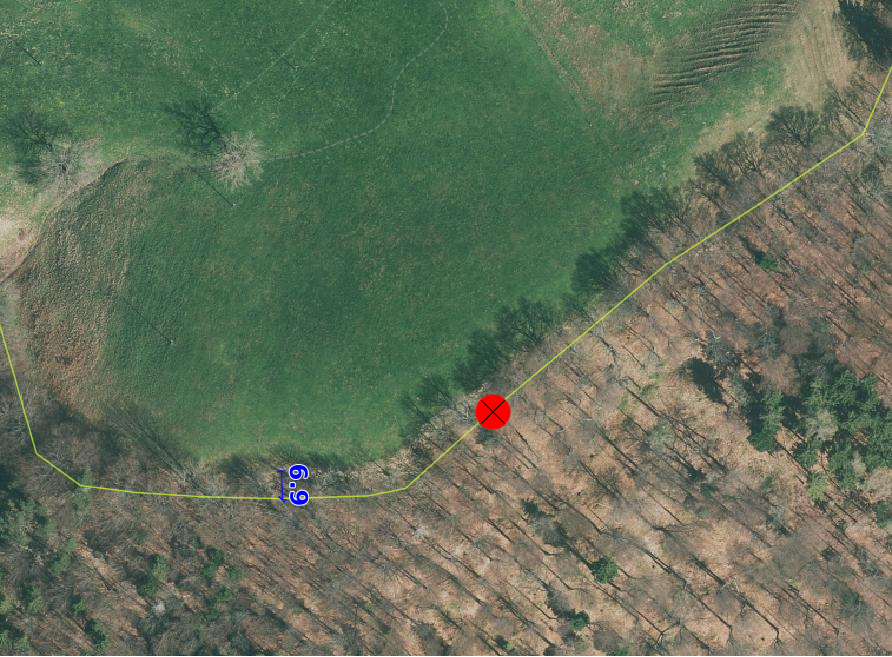
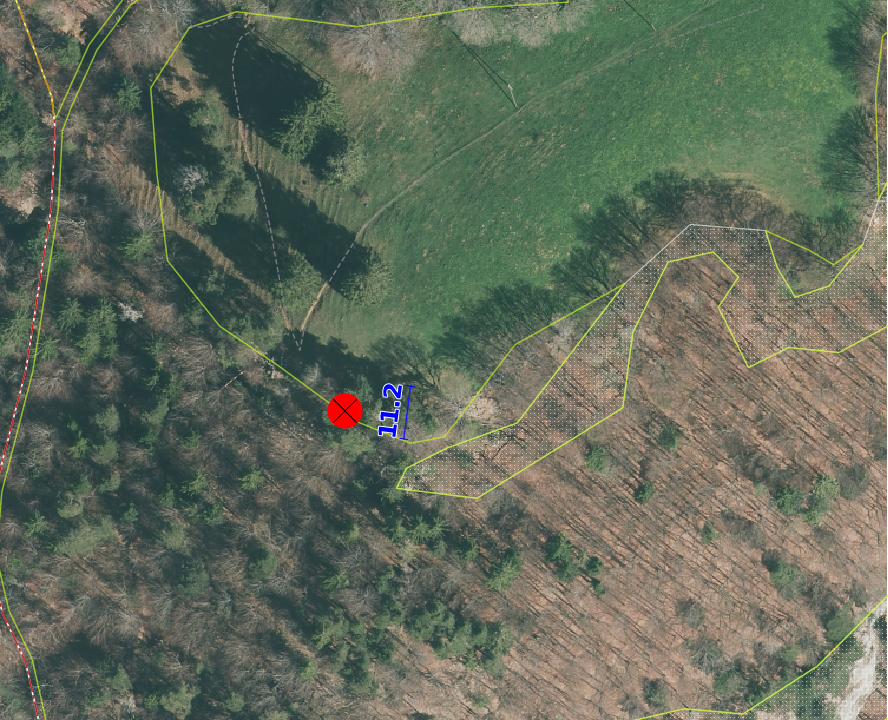
bestockte Fläche

diff --git a/source/bestockte_flaeche.rst b/source/bestockte_flaeche.rst
@@ -36,16 +36,31 @@ BB.geschlossener_Wald
                                
 Lagedifferenz  
 ^^^^^^^^^^^^^                        
-                         
-Wird eine Lagedifferenz zwischen der AV und dem aktuellen Orthofoto grösser als die Toleranz (siehe :ref:`ref_Tz`) und die Interpretationsgenauigkeit detektiert, so ist das Objekt in der AV zu korrigieren. Liegt die Differenz innerhalb der Toleranz, wird das Objekt nicht angepasst. 
+.. index:: Wald, geschlossener Wald   
+                               
+Lagedifferenz  
+^^^^^^^^^^^^^                                              
+Wird eine Lagedifferenz zwischen der AV und dem aktuelle Othofoto grösser als die Toleranz (siehe :ref:`ref_Tz`) und die interpetier Genauigkeit detektiert, so ist das Objekt in der AV zu korrigieren.                                                 
+Liegt die Differenz innerhalb der Toleranz, wird das Objekt nicht angepasst. Ist auf dem Orthofoto nicht klahr ersichtlich, wo der Waldrand verläuft, wird in der AV keine Korrektur vorgenommen.
+
+.. important:: 
+   * Nicht mehr Wald generieren! Wald eher knapp als zu grosszügig definieren.
+   * Nur offensichtliche Unstimmigkeiten korrigieren. Falls die Waldgrenze auf dem Orthofoto nicht klahr ersichtlich ist, wird keine Korrektur in der AV vorgenommen.
+   * Falls Bäume 10 m auseinander stehen ist diese Bestockung kein ``BB.geschlossener Wald``
+
+
+
+.. note::
+   Durch die Kreisförster wird im Zyklus von 10 Jahren der Wald anhand des Waldgesetz auf dem Waldplan erhoben. Als Grundlage für diese Walpläne dient die AV. Die Anpassungen auf dem Waldplan durch die Kreisförster sind jeweils bei der PNF zu berücksichtigen.
+   Stand der Waldpläne siehe Link Termin Waldplan???????????
 
 Benötigende Layer im QGIS:
 
 .. code-block:: none
 
-   Bestockte Fläche / Lagekontrolle   
+   Bestockte Fläche/ Lagekontrolle   
+   Waldplan?????????????????
                                 
-
 Beispiele:
 
 +--------------------------------------------------------------------------------------------+------------------------------------------------------------------------------------+ 
@@ -56,7 +71,7 @@ Beispiele:
 |   :target: _static/bestockte_Flaeche_geschlossener_Wald_Lagedifferenz.png                  |   :target: _static/bestockte_Flaeche_geschlossener_Wald_Lagedifferenz_korr.png     |
 |                                                                                            |                                                                                    |
 |   ``BB.geschlossener_Wald`` ist zu korrigieren, weil die Lagedifferenz                     |   ``BB.geschlossener_Wald`` ist zu korrigieren gemäss den rot dargestellten Linie  |
-|   grösser als die Toleranz (TS3: 3.0 m) und Interpretationsgenauigkeit ist.                |                                                                                    |
+|   grösser als die Toleranz (TS3: 6.0 m) und Interpretationsgenauigkeit ist.                |                                                                                    |
 +--------------------------------------------------------------------------------------------+------------------------------------------------------------------------------------+        
 |.. _bestockte_Flaeche_geschlossener_Wald_Lagedifferenz2:                                    |.. _bestockte_Flaeche_geschlossener_Wald_Lagedifferenz_korr2:                       | 
 |                                                                                            |                                                                                    |
@@ -65,17 +80,38 @@ Beispiele:
 |   :target: _static/bestockte_Flaeche_geschlossener_Wald_Lagedifferenz2.png                 |   :target: _static/bestockte_Flaeche_geschlossener_Wald_Lagedifferenz2_korr.png    |
 |                                                                                            |                                                                                    |
 |   ``BB.geschlossener_Wald`` ist zu korrigieren, weil die Lagedifferenz                     |   ``BB.geschlossener_Wald`` ist zu korrigieren gemäss den rot dargestellten Linie  |
-|   grösser als die Toleranz (TS3: 3.0 m) und Interpretationsgenauigkeit ist.                |                                                                                    |
+|   grösser als die Toleranz (TS4: 6.0 m) und Interpretationsgenauigkeit ist.                |                                                                                    |
 +--------------------------------------------------------------------------------------------+------------------------------------------------------------------------------------+ 
-|.. _bestockte_Flaeche_geschlossener_Wald_Lagedifferenz_iO:                                  |                                                                                    | 
+|.. _bestockte_Flaeche_geschlossener_Wald_Lagedifferenz3:                                    |.. _bestockte_Flaeche_geschlossener_Wald_Lagedifferenz_korr3:                       | 
 |                                                                                            |                                                                                    |
-|.. figure:: _static/bestockte_Flaeche_geschlossener_Wald_Lagedifferenz_iO.png               |                                                                                    | 
-|   :width: 550px                                                                            |                                                                                    |
-|   :target: _static/bestockte_Flaeche_geschlossener_Wald_Lagedifferenz_iO.png               |                                                                                    |
+|.. figure:: _static/bestockte_Flaeche_geschlossener_Wald_Lagedifferenz_3.png                |.. figure:: _static/bestockte_Flaeche_geschlossener_Wald_Lagedifferenz_korr_3.png   | 
+|   :width: 550px                                                                            |   :width: 550px                                                                    |
+|   :target: _static/bestockte_Flaeche_geschlossener_Wald_Lagedifferenz_3.png                |   :target: _static/bestockte_Flaeche_geschlossener_Wald_Lagedifferenz_korr_3.png   |
 |                                                                                            |                                                                                    |
-|   ``BB.geschlossener_Wald`` ist **nicht** zu korrigieren, weil die                         |                                                                                    |
-|   Lagedifferenz  grösser als die Toleranz (TS3: 3.0 m) und Interpretationsgenauigkeit ist. |                                                                                    |
+|   ``BB.geschlossener_Wald`` ist zu korrigieren, weil die Lagedifferenz                     |   ``BB.geschlossener_Wald`` ist zu korrigieren gemäss den rot dargestellten Linie. |
+|   grösser als die Toleranz (TS4: 6.0 m) und Interpretationsgenauigkeit ist.                |   Da die Bäume im rechten Bereich weiterauseinander stehen als 10 m, ist diese     |
+|   Hinweis: Die Dichte der Bestockung gegen Süden niemt ab (Distanz zwischen den Bäumen     |   Bestockung nicht zu erfassen.                                                    |
+|   > 10 m) und erfüllt die Kriterien des ``BB.geschlossener_Wald`` nicht mehr.              |                                                                                    |
 +--------------------------------------------------------------------------------------------+------------------------------------------------------------------------------------+ 
+|.. _bestockte_Flaeche_geschlossener_Wald_Lagedifferenz6:                                    |.. _bestockte_Flaeche_geschlossener_Wald_Lagedifferenz_korr6:                       | 
+|                                                                                            |                                                                                    |
+|.. figure:: _static/bestockte_Flaeche_geschlossener_Wald_Lagedifferenz_6.png                |.. figure:: _static/bestockte_Flaeche_geschlossener_Wald_Lagedifferenz_korr_6.png   | 
+|   :width: 550px                                                                            |   :width: 550px                                                                    |
+|   :target: _static/bestockte_Flaeche_geschlossener_Wald_Lagedifferenz_6.png                |   :target: _static/bestockte_Flaeche_geschlossener_Wald_Lagedifferenz_korr_6.png   |
+|                                                                                            |                                                                                    |
+|   ``BB.geschlossener_Wald`` ist zu korrigieren, weil die Lagedifferenz                     |   ``BB.geschlossener_Wald`` ist zu korrigieren gemäss den rot dargestellten Linie. |
+|   grösser als die Toleranz (TS3: 6.0 m) und Interpretationsgenauigkeit ist.                |                                                                                    |
++--------------------------------------------------------------------------------------------+------------------------------------------------------------------------------------+ 
+|.. _bestockte_Flaeche_geschlossener_Wald_Lagedifferenz_iO_2:                                |.. _bestockte_Flaeche_geschlossener_Wald_Lagedifferenz_iO:                          | 
+|                                                                                            |                                                                                    |
+|.. figure:: _static/bestockte_Flaeche_geschlossener_Wald_Lagedifferenz_iO_2.png             |.. figure:: _static/bestockte_Flaeche_geschlossener_Wald_Lagedifferenz_iO.png       | 
+|   :width: 550px                                                                            |   :width: 550px                                                                    |
+|   :target: _static/bestockte_Flaeche_geschlossener_Wald_Lagedifferenz_iO_2.png             |   :target: _static/bestockte_Flaeche_geschlossener_Wald_Lagedifferenz_iO.png       |
+|                                                                                            |                                                                                    |
+|   ``BB.geschlossener_Wald`` ist **nicht** zu korrigieren, weil die                         |   ``BB.geschlossener_Wald`` ist **nicht** zu korrigieren, weil die                 |
+|   Lagedifferenz  kleiner als die Toleranz (TS3: 6.0 m).                                    |   Lagedifferenz  kleiner als die Toleranz (TS3: 6.0 m) und                         |
++--------------------------------------------------------------------------------------------+------------------------------------------------------------------------------------+ 
+                                                                                                                                                                                       
 
 Objekt fehlt/löschen
 ^^^^^^^^^^^^^^^^^^^^
@@ -106,7 +142,7 @@ Objekt umattribuieren
 Ist in der AV geschlossener Wald erfasst, der das Flächenkriterium von 500m2 und die Breite > 12m nicht erfüllen, sind diese umzuattribuieren.    
 
 .. note::
-   | Waldstücke die durch ``BB.Strasse_Weg`` getrennt werden, gehören zu ``BB.geschlossener_Wald``. Einzelne Teilflächen sind für die Beurteilung des Flächenkriteriums als ein Fläche zu betrachten.
+   | Waldstücke die durch ``BB.Strasse_Weg`` getrennt werden, gehören zu ``BB.geschlossener_Wald``. Einzelne Teilflächen sind für die Beurteilung des Flächenkriteriums als eine Fläche zu betrachten.
    | Waldzungen deren Breite zwischen 6 m und 12 m liegt, werden ab einer Länge von 20 m nicht mehr als ``BB.geschlossener_Wald`` attribuiert. Waldzungen mit einer Breite kleiner 6 m gehören nicht zu ``BB.geschlossener_Wald``.
    
 Benötigende Layer im QGIS:
@@ -124,8 +160,19 @@ Beispiele:
 |   :width: 550px                                                             |   :width: 550px                                                                    |
 |   :target: _static/bestockte_Flaeche_geschlossener_Wald_umattribuieren.png  |   :target: _static/bestockte_Flaeche_geschlossener_Wald_umattribuieren_korr.png    |
 |                                                                             |                                                                                    |
-|   ``BB.geschlosener Wald`` > 12m ist umzuattribuieren in ``BB.Hecke``.      |   ``BB.geschlossener Wald`` ist zu korrigieren gemäss den rot dargestellten Linien.|
+|   ``BB.geschlosener Wald`` < 12m ist umzuattribuieren in ``BB.Hecke``.      |   ``BB.geschlossener Wald`` ist zu korrigieren gemäss den rot dargestellten Linien.|
 +-----------------------------------------------------------------------------+------------------------------------------------------------------------------------+                     
+|.. _bestockte_Flaeche_geschlossener_Wald_umattribuieren2:                    |.. _bestockte_Flaeche_geschlossener_Wald_umattribuieren_korr2:                      | 
+|                                                                             |                                                                                    |
+|.. figure:: _static/bestockte_Flaeche_geschlossener_Wald_umattribuieren_2.png|.. figure:: _static/bestockte_Flaeche_geschlossener_Wald_umattribuieren_korr_2.png  | 
+|   :width: 550px                                                             |   :width: 550px                                                                    |
+|   :target: _static/bestockte_Flaeche_geschlossener_Wald_umattribuieren_2.png|   :target: _static/bestockte_Flaeche_geschlossener_Wald_umattribuieren_korr_2.png  |
+|                                                                             |                                                                                    |
+|   Waldzungen mit Breite zwischen 6 m und 12 m gehört nur bis max. einer     |   ``BB.geschlossener Wald`` ist zu korrigieren gemäss den rot dargestellten Linien.|
+|   Länge von 20 m zu ``BB.geschlossener_Wald``.                              |                                                                                    |
++-----------------------------------------------------------------------------+------------------------------------------------------------------------------------+
+
+ 
 
 BB.uebrige_Bestockte
 --------------------
@@ -134,7 +181,7 @@ BB.uebrige_Bestockte
 Lagedifferenz  
 ^^^^^^^^^^^^^                        
                          
-Wird eine Lagedifferenz zwischen der AV und dem aktuellen Orthofoto grösser als die Toleranz (siehe :ref:`ref_Tz`) und die Interpretationsgenauigkeit detektiert, so ist das Objekt in der AV zu korrigieren. Liegt die Differenz innerhalb der Toleranz un der Interpretationsgenauigkeit, wird das Objekt nicht angepasst. 
+Wird eine Lagedifferenz zwischen der AV und dem aktuellen Orthofoto grösser als die Toleranz (siehe :ref:`ref_Tz`) und die Interpretationsgenauigkeit detektiert, so ist das Objekt in der AV zu korrigieren. Liegt die Differenz innerhalb der Toleranz und der Interpretationsgenauigkeit, wird das Objekt nicht angepasst. 
 
 Benötigende Layer im QGIS:
 
@@ -149,7 +196,8 @@ Objekt umattribuieren
 Sind in der AV ``BB.uebrige_Bestockte``-Objekte erfasst, die zu ``BB.Hecke`` oder ``BB.geschlossener_Wald`` gehören, sind diese umzuattribuieren.
 
 .. note::
-   Aufforstungen gehören zu ``BB.geschlossener_Wald``.
+   * Aufforstungen gehören zu ``BB.geschlossener_Wald``.
+   * An ``BB.geschlossener_Wald`` draf kein ``BB.uebrige_Bestockte`` grenzen
 
 Beispiel:
 
@@ -173,6 +221,31 @@ Benötigende Layer im QGIS:
 
    Bestockte Fläche / Lagekontrolle  
 
+   
+BB.Parkanlage_bestockt
+----------------------
+.. index:: Parkanlage bestockt
+                               
+Lagedifferenz  
+^^^^^^^^^^^^^                        
+                         
+Wird eine Lagedifferenz zwischen der AV und dem aktuellen Orthofoto grösser als die Toleranz (siehe :ref:`ref_Tz`) und die Interpretationsgenauigkeit detektiert, so ist das Objekt in der AV zu korrigieren. Liegt die Differenz innerhalb der Toleranz und der Interpretationsgenauigkeit, wird das Objekt nicht angepasst. 
+
+Benötigende Layer im QGIS:
+
+.. code-block:: none
+
+   Bestockte Fläche / Lagekontrolle   
+
+Objekt fehlt/löschen/ umattribuieren
+^^^^^^^^^^^^^^^^^^^^^^^^^^^^^^^^^^^^
+Ist auf dem aktuellen Orthofoto eine betockte Parkanlage zu erkennen, die nicht in der AV erfasst ist, ist diese bestockte Fläche im Rahmen der PNF/Homogenisierung **nicht** neu in der AV als ``BB.Parkanlage_bestockt`` zu erfassen. 
+Ist in der AV eine ``BB.Parkanlage_bestockt`` erfasst, die auf dem aktuellen Orthofoto nicht mehr zu erkennen ist oder das Aufnahmekriterium nicht erfüllt, ist dieses Objekt zu löschen.
+Sind in der AV betockte Parkanlage erfasst, die gemäss Kriterium *Handbuches der amtlichen Vermessung Kanton Solothurn*  zu ``BB.übrige Bestockte``, ``BB.Hecke`` oder ``BB.geschlossener Wald`` gehören, sind die Objekte umzuattribuieren.
+.. code-block:: none
+
+   Bestockte Fläche / Lagekontrolle   
+
 
 BB.Hecke
 ---------
@@ -192,7 +265,12 @@ Benötigende Layer im QGIS:
 Objekt fehlt/löschen
 ^^^^^^^^^^^^^^^^^^^^^
 Ist auf dem aktuellen Orthofoto ein Bestockung zu erkennen, die das Flächenkriterium gemäss TVAV Art. 13 (???????????) erfüllt, ist diese bestockte Fläche im Rahmen der PNF/Homogenisierung neu in der AV als ``BB.Hecke`` zu erfassen. 
-Ist in der AV eine ``BB.Hecke`` erfasst, die auf dem aktuellen Orthofoto nicht mehr zu erkennen ist oder das Flächenkriterium gemäss TVAV Art. 13 nicht nicht erfüllt, ist dieses Objekt zu löschen.
+Ist in der AV eine ``BB.Hecke`` erfasst, die auf dem aktuellen Orthofoto nicht mehr zu erkennen ist oder das Flächenkriterium ??????? gemäss TVAV Art. 13 nicht nicht erfüllt, ist dieses Objekt zu löschen.
+
+.. code-block:: none
+
+   Bestockte Fläche / Lagekontrolle   
+
 
 Beispiel:
 
@@ -226,9 +304,20 @@ Beispiel:
    :target: _static/bestockte_Flaeche_Heck_umattribuieren.png  
                                                                   
    ``BB.Hecke`` ist umzuattribuieren in ``BB.geschlossener Wald``. Weil die Bachbreite kleiner 4m ist, wird die Bestockung als zusammenhängende Einheit betrachtet.
-|
-                                                                   
+
+EO.schmale_bestockte_Fläche
+---------------------------
+.. index:: schmale bestockte Fläche                                                             
   
+Objekt löschen
+^^^^^^^^^^^^^^
+                       
+Erfasste ``EO.schmale_bestockte_Fläche`` in der AV sind zu löschen. 
+
+.. code-block:: none
+
+   Bestockte Fläche/ Checklayer/EO.schmale_bestockte_Flaeche
+
    
                                                                                                                                                    
                                                                     

diff --git a/source/toleranz.rst b/source/toleranz.rst
@@ -6,26 +6,28 @@ Toleranzen
 
 Abgrenzungen weden im Projekt *periodische Nachführung und Homogenisierung* nur korrigiert, falls sie ausserhalb folgender Toleranzwerte liegen:
 
-
-+----------------------------+-----------+-----------+-----------+-----------------------------------------------+
-|Beschreibung                |    TS2    |    TS3    |    TS4    | Bodenbedeckungsarten                          |
-+============================+===========+===========+===========+===============================================+
-| befestigte Fläche **ohne** |   1.0 m   |   1.5 m   |   1.5 m   | Strasse_Weg, Sportanlage_befestigt            |
-| Abschluss                  |           |           |           |                                               |
-+----------------------------+-----------+-----------+-----------+-----------------------------------------------+
-| befestigte Fläche **mit**  |   0.5 m   |   1.0 m   |   1.5 m   | Strasse_Weg, Sportanlage_befestigt            |
-| Abschluss                  |           |           |           |                                               | 
-+----------------------------+-----------+-----------+-----------+-----------------------------------------------+
-| unbefestigte Fläche        |   2.0 m   |   3.0 m   |   3.0 m   | Acker_Wiese, Reben, Obstkultur,               |
-|                            |           |           |           | übrige_Intensivkultur, Gartenanlage,          |
-|                            |           |           |           | Parkanlage_humusiert, Sportanlage_humusiert,  |
-|                            |           |           |           | Friedhof, Hoch_Flachmoor, übrige_humusiert,   |
-|                            |           |           |           | stehendes_Gewässer, fliessendes_Gewässer,     |
-|                            |           |           |           | Schilfgürtel, geschlossener_Wald,             |
-|                            |           |           |           | Parkanlage_bestockt, Hecke, übrige_Bestockte, |
-|                            |           |           |           | Fels, Geröll_Sand, Steinbruch, Kiesgrube,     |
-|                            |           |           |           | Deponie, übriger Abbau, übrige_vegetationslose|
-+----------------------------+-----------+-----------+-----------+-----------------------------------------------+
-
-|
-
+                                                                                                                                                          
++----------------------------------+-----------+-----------+-----------+-----------------------------------------------+-----------------------------------+  
+|Beschreibung                      |    TS2    |    TS3    |    TS4    | Bodenbedeckungsarten                          | Einzelobjektarten                 |
++==================================+===========+===========+===========+===============================================+===================================+
+| befestigte Fläche **ohne**       |   1.0 m   |   1.5 m   |   1.5 m   | Strasse_Weg, Sportanlage_befestigt            |                                   |
+| Abschluss                        |           |           |           |                                               |                                   |
++----------------------------------+-----------+-----------+-----------+-----------------------------------------------+-----------------------------------+
+| befestigte Fläche **mit**        |   0.5 m   |   1.0 m   |   1.5 m   | Strasse_Weg, Sportanlage_befestigt            |                                   |
+| Abschluss                        |           |           |           |                                               |                                   | 
++----------------------------------+-----------+-----------+-----------+-----------------------------------------------+-----------------------------------+
+| unbefestigte Fläche              |   2.0 m   |   3.0 m   |   3.0 m   | Acker_Wiese, Reben, Obstkultur,               | schmaler_Weg, Fahrspur, Rinnsal   |
+|                                  |           |           |           | übrige_Intensivkultur, Gartenanlage,          |                                   |
+|                                  |           |           |           | Parkanlage_humusiert, Sportanlage_humusiert,  |                                   |
+|                                  |           |           |           | Friedhof, Hoch_Flachmoor, übrige_humusiert,   |                                   |
+|                                  |           |           |           | stehendes_Gewässer, fliessendes_Gewässer,     |                                   |
+|                                  |           |           |           | Schilfgürtel,                                 |                                   |
+|                                  |           |           |           | Fels, Geröll_Sand, Steinbruch, Kiesgrube,     |                                   |
+|                                  |           |           |           | Deponie, übriger Abbau, übrige_vegetationslose|                                   |
++----------------------------------+-----------+-----------+-----------+-----------------------------------------------+-----------------------------------+
+| bestockte Fläche [#f1]_          |   4.0 m   |   6.0 m   |   6.0 m   | geschlossener_Wald,  Hecke, übrige_Bestockte, |                                   |
+|                                  |           |           |           | Parkanlage_bestockt                           |                                   | 
++----------------------------------+-----------+-----------+-----------+-----------------------------------------------+-----------------------------------+
+                                   
+.. rubric:: Fussnote        
+.. [#f1] mit AWJF abgesprochen                                                                                    
